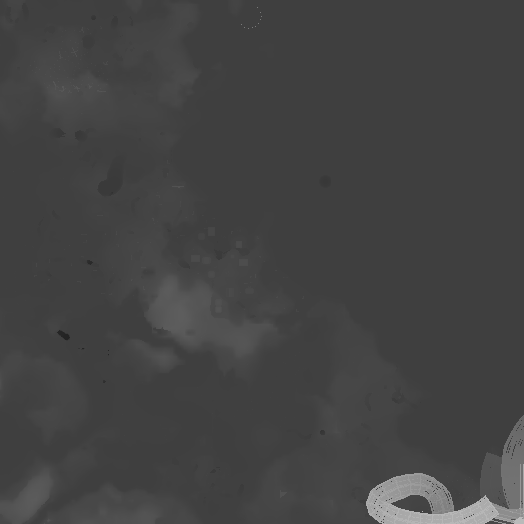
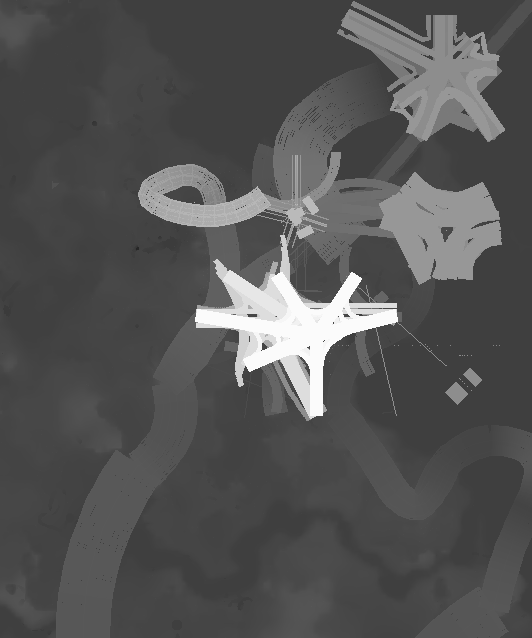
Add /setbuildarea and refactor curveCornerIntersection

diff --git a/roads.py b/roads.py
@@ -300,7 +300,7 @@ def DELETEintersection(roadsData, centerPoint, mainRoads, sideRoads):
         )
 
         # Compute the curve.
-        intersectionPointsTemp = maths.curveCornerIntersection(
+        intersectionPointsTemp = maths.curveCornerIntersectionPoints(
             line0, line1, 10, angleAdaptation=False
         )
 
@@ -380,11 +380,13 @@ def intersection(roadsData, centerPoint, mainRoads, sideRoads):
 
     # Set the main roads.
     for i in roadsData["mainRoads"]:
+        mainLanes = []
         mainRoad = RoadCurve(
             roadsData["mainRoads"].get(i), (mainRoads.get(i)[0], centerPoint)
         )
         mainRoad.setLanes()
         lanes[mainRoads[i][0]] = mainRoad.getLanes()
+        mainLanes.append(mainRoad.getLanes())
         # We don't want to inverse the orientation of the main road.
         mainRoad = RoadCurve(
             roadsData["mainRoads"].get(i), (centerPoint, mainRoads.get(i)[1])
@@ -399,6 +401,31 @@ def intersection(roadsData, centerPoint, mainRoads, sideRoads):
             ),
         )
         lanes[mainRoads[i][1]] = mainRoad.getLanes()
+        mainLanes.append(mainRoad.getLanes())
+
+        # # Compute the curve of the main road.
+        # center = ()
+        # for j in list(mainRoad.getLanes().keys()):
+
+        #     line0 = (mainLanes[0][j][0], mainLanes[0][j][1])
+        #     line1 = (mainLanes[1][j][0], mainLanes[1][j][1])
+
+        #     intersectionPointsTemp, center = maths.curveCornerIntersectionLine(
+        #         line0, line1, 70, angleAdaptation=False, center=center
+        #     )
+
+        #     y = 205
+        #     intersectionPoints = []
+        #     [
+        #         intersectionPoints.append((round(xz[0]), y, round(xz[1])))
+        #         for xz in intersectionPointsTemp
+        #         if (round(xz[0]), y, round(xz[1])) not in intersectionPoints
+        #     ]
+        #     print(intersectionPointsTemp, center)
+
+        #     singleLane2(
+        #         intersectionPoints, blocks=standard_modern_lane_composition
+        #     )
 
     # Sort all the points in rotation order.
     points = []
@@ -418,35 +445,47 @@ def intersection(roadsData, centerPoint, mainRoads, sideRoads):
         )
 
         # Compute the curve.
-        intersectionPoints = maths.curveCornerIntersection(
-            line0, line1, 10, angleAdaptation=False
+        intersectionPointsTemp = maths.curveCornerIntersectionLine(
+            line0, line1, 30, angleAdaptation=False
+        )[0]
+
+        y = 250
+        intersectionPoints = []
+        [
+            intersectionPoints.append((round(xz[0]), y, round(xz[1])))
+            for xz in intersectionPointsTemp
+            if (round(xz[0]), y, round(xz[1])) not in intersectionPoints
+        ]
+
+        singleLane2(
+            intersectionPoints, blocks=standard_modern_lane_composition
         )
 
-        # Generate the curve.
-        for key, value in lanes.items():
-            for __, value1 in value.items():
-                if intersectionPoints[0] in value1:
-                    # Key found.
-                    for __, j in enumerate(mainRoads):
-                        if key in mainRoads[j]:
-                            curveRoad = RoadCurve(
-                                roadsData["mainRoads"][j], intersectionPoints
-                            )
-                            curveRoad.setLanes(
-                                [max(roadsData["mainRoads"][j]["lanes"])]
-                            )
-                    # for __, j in enumerate(sideRoads):
-                    #     print(sideRoads[j])
-                    #     if key == sideRoads[j]:
-                    #         print(
-                    #             roadsData["sideRoads"][j], intersectionPoints
-                    #         )
-                    #         curveRoad = Road(
-                    #             roadsData["sideRoads"][j], intersectionPoints
-                    #         )
-                    #         curveRoad.setLanes(
-                    #             [min(roadsData["sideRoads"][j]["lanes"])]
-                    #         )
+        # # Generate the curve.
+        # for key, value in lanes.items():
+        #     for __, value1 in value.items():
+        #         if intersectionPoints[0] in value1:
+        #             # Key found.
+        #             for __, j in enumerate(mainRoads):
+        #                 if key in mainRoads[j]:
+        #                     curveRoad = RoadCurve(
+        #                         roadsData["mainRoads"][j], intersectionPoints
+        #                     )
+        #                     curveRoad.setLanes(
+        #                         [max(roadsData["mainRoads"][j]["lanes"])]
+        #                     )
+        #             # for __, j in enumerate(sideRoads):
+        #             #     print(sideRoads[j])
+        #             #     if key == sideRoads[j]:
+        #             #         print(
+        #             #             roadsData["sideRoads"][j], intersectionPoints
+        #             #         )
+        #             #         curveRoad = Road(
+        #             #             roadsData["sideRoads"][j], intersectionPoints
+        #             #         )
+        #             #         curveRoad.setLanes(
+        #             #             [min(roadsData["sideRoads"][j]["lanes"])]
+        #             #         )
 
 
 ############################# Lanes Preset #############################
@@ -470,20 +509,27 @@ standard_modern_lanes_agencement = {
                 1: {"type": singleLane2, "centerDistance": 5},
             }
         },
+        1: {
+            "lanes": {
+                -1: {"type": singleLane2, "centerDistance": -5},
+                0: {"type": singleLane2, "centerDistance": 0},
+                1: {"type": singleLane2, "centerDistance": 5},
+            }
+        },
     },
     "sideRoads": {
         0: {
             "lanes": {
                 -1: {"type": singleLane, "centerDistance": -5},
-                1: {"type": singleLane, "centerDistance": 5},
-                2: {"type": singleLane, "centerDistance": 11},
+                1: {"type": singleLane, "centerDistance": 0},
+                2: {"type": singleLane, "centerDistance": 5},
             }
         },
         1: {
             "lanes": {
                 -1: {"type": singleLane, "centerDistance": -5},
-                1: {"type": singleLane, "centerDistance": 5},
-                2: {"type": singleLane, "centerDistance": 11},
+                1: {"type": singleLane, "centerDistance": 0},
+                2: {"type": singleLane, "centerDistance": 5},
             }
         },
     },
@@ -503,11 +549,12 @@ standard_modern_lanes_agencement = {
 
 intersection(
     standard_modern_lanes_agencement,
-    (-30, 160, 100),
+    (20, 250, 120),
     {
-        0: ((20, 160, 200), (-20, 160, 60)),
+        0: ((20, 250, 200), (-20, 250, 60)),
+        1: ((60, 250, 60), (-50, 250, 150)),
     },
-    {0: (-100, 160, 100), 1: (100, 160, 100)},
+    {0: (-100, 250, 100), 1: (100, 250, 100)},
 )
 
 

diff --git a/maths.py b/maths.py
@@ -383,7 +383,8 @@ def cleanLine(path):  # HERE
     TODO:
         Do not work perfectly since 16/04/2021.
         Add new patterns.
-        Problem with i -= 10 : solved but not understand why. 16/04/2021.
+        Problem with i -= 10 : solved but not understand why.
+        16/04/2021.
     """
 
     pathTemp = []
@@ -506,8 +507,8 @@ def curveSurface(
         points (numpy.ndarray): Points where the curve should go.
         distance (int): Thickness.
         resolution (int, optional): Number of blocks that separate each
-        point to calculate parallel curves. 0 to use the points calculated to
-        create the curve. Defaults to 7.
+        point to calculate parallel curves. 0 to use the points
+        calculated to create the curve. Defaults to 7.
         pixelPerfect (bool, optional): True to avoid heaps. Defaults to
         False.
         factor (int, optional): Number of sub-line that will be
@@ -682,7 +683,8 @@ def getAngle(xy0, xy1, xy2):
 
 def lineIntersection(line0, line1, fullLine=True):
     """
-    Find (or not) intersection between two lines. Works in 2d but supports 3d.
+    Find (or not) intersection between two lines. Works in 2d but
+    supports 3d.
 
     https://stackoverflow.com/questions/20677795/how-do-i-compute-the-intersection-point-of-two-lines
 
@@ -744,12 +746,16 @@ def circleLineSegmentIntersection(
     Args:
         circleCenter (tuple): The (x, y) location of the circle center.
         circleRadius (int): The radius of the circle.
-        xy0 (tuple): The (x, y) location of the first point of the segment.
-        xy1 ([tuple]): The (x, y) location of the second point of the segment.
+        xy0 (tuple): The (x, y) location of the first point of the
+        segment.
+        xy1 ([tuple]): The (x, y) location of the second point of the
+        segment.
         fullLine (bool, optional): True to find intersections along
         full line - not just in the segment.  False will just return
         intersections within the segment. Defaults to True.
-        tangentTol (float, optional): Numerical tolerance at which we decide the intersections are close enough to consider it a tangent. Defaults to 1e-9.
+        tangentTol (float, optional): Numerical tolerance at which we
+        decide the intersections are close enough to consider it a
+        tangent. Defaults to 1e-9.
 
     Returns:
         list: A list of length 0, 1, or 2, where each element is a point
@@ -814,8 +820,8 @@ def circle(xyC, r):
 
     Returns:
         dict: Keys are distance from the circle. Value is a list of all
-        coordinates at this distance. 0 for a circle. Negative values for
-        a disc, positive values for a hole.
+        coordinates at this distance. 0 for a circle. Negative values
+        for a disc, positive values for a hole.
     """
     area = (
         (round(xyC[0]) - round(r), round(xyC[1]) - round(r)),
@@ -968,13 +974,11 @@ def sortRotation(points):
     return sortedPoints
 
 
-def curveCornerIntersection(
+def curveCornerIntersectionPoints(
     line0, line1, startDistance, angleAdaptation=False
 ):
     """
     Create points between the two lines to smooth the intersection.
-
-    This function was created in order to generate roads intersections.
 
     Args:
         line0 (tuple): Tuple of tuple. Line coordinates. Order matters.
@@ -990,7 +994,7 @@ def curveCornerIntersection(
         [list]: List of tuple of coordinates (2d) that forms the curve.
         Starts on the line and end on the other line.
 
-    >>> curveCornerIntersection(((0, 0), (50, 20)), ((-5, 50), (25, -5)), 10)
+    >>> curveCornerIntersectionPoints(((0, 0), (50, 20)), ((-5, 50), (25, -5)), 10)
     """
     intersection = lineIntersection(line0, line1, fullLine=True)
 
@@ -1040,6 +1044,82 @@ def curveCornerIntersection(
     # Be sure that all the points are in correct order.
     curveCornerPoints = optimizedPath(curveCornerPointsTemp, startCurvePoint)
     return curveCornerPoints
+
+
+def curveCornerIntersectionLine(
+    line0, line1, startDistance, angleAdaptation=False, center=()
+):
+    """
+    Create a continuous circular line between the two lines to smooth
+    the intersection.
+
+    Args:
+        line0 (tuple): Tuple of tuple. Line coordinates. Order matters.
+        line1 (tuple): Tuple of tuple. Line coordinates. Order matters.
+        startDistance (int): distance from the intersection where the
+        curve should starts.
+        angleAdaptation (bool, optional): True will adapt the
+        startDistance depending of the angle between the two lines.
+        False will force the distance to be startDistance. Defaults to
+        False.
+
+    Returns:
+        [list]: List of tuple of coordinates (2d) that forms the curve.
+        Starts on the line and end on the other line.
+
+    TODO:
+        angleAdaptation : Set circle radius and not startDistance.
+        Polar coordinates / Unit circle instead of InTriangle.
+
+    >>> curveCornerIntersectionLine(((0, 0), (50, 20)), ((-5, 50), (25, -5)), 10)
+    """
+    intersection = lineIntersection(line0, line1, fullLine=True)
+
+    if intersection == None:
+        return None
+
+    # Define automatically the distance from the intersection, where the curve
+    # starts.
+    if angleAdaptation:
+        angle = getAngle(
+            (line0[0][0], line0[0][-1]),
+            intersection,
+            (line1[0][0], line1[0][-1]),
+        )
+        # Set here the radius of the circle for a square angle.
+        startDistance = startDistance * abs(1 / (angle / 90))
+
+    startCurvePoint = circleLineSegmentIntersection(
+        intersection, startDistance, line0[0], intersection, fullLine=True
+    )[0]
+    endCurvePoint = circleLineSegmentIntersection(
+        intersection, startDistance, line1[0], intersection, fullLine=True
+    )[0]
+    # Higher value for better precision
+    perpendicular0 = perpendicular(10e3, startCurvePoint, intersection)[0]
+    perpendicular1 = perpendicular(10e3, endCurvePoint, intersection)[1]
+
+    if center == ():
+        center = lineIntersection(
+            (perpendicular0, startCurvePoint), (perpendicular1, endCurvePoint)
+        )
+
+    # Distance with startCurvePoint and endCurvePoint from the center
+    # are almost the same.
+    radius = distance2D(startCurvePoint, center)
+
+    circleArc = circle(center, round(radius))[0]
+
+    # Find the correct point on the circle.
+    curveCornerPointsTemp = [startCurvePoint]
+    for point in circleArc:
+        if InTriangle(point, intersection, startCurvePoint, endCurvePoint):
+            curveCornerPointsTemp.append(point)
+    # curveCornerPointsTemp.append(endCurvePoint)
+
+    # Be sure that all the points are in correct order.
+    curveCornerPoints = optimizedPath(curveCornerPointsTemp, startCurvePoint)
+    return curveCornerPoints, center
 
 
 def middleLine(xyz0, xyz1):

diff --git a/roadsNetwork.py b/roadsNetwork.py
@@ -252,7 +252,9 @@ def DELETEintersection(centerPoint, roadsData):
         line1 = roads[i - 1]
         main.setLine("white_concrete", line0[0], line0[1])
         main.setLine("red_concrete", line1[0], line1[1])
-        intersectionPoints = maths.curveCornerIntersection(line0, line1, 10)
+        intersectionPoints = maths.curveCornerIntersectionPoints(
+            line0, line1, 10
+        )
         # 2d to 3d.
         for i in range(len(intersectionPoints)):
             intersectionPoints[i] = (
@@ -371,7 +373,7 @@ def DELETE2intersection(blocks, XYZ, roadsData):
     for i in range(len(lanes)):
         line0 = lanes[i][max(lanes[i])]
         line1 = lanes[i - 1][min(lanes[i - 1])]
-        intersectionPointsTemp = maths.curveCornerIntersection(
+        intersectionPointsTemp = maths.curveCornerIntersectionPoints(
             line0, line1, 10
         )
         for i in range(len(intersectionPointsTemp)):

diff --git a/scan.py b/scan.py
@@ -9,6 +9,7 @@ from PIL import Image
 import matplotlib.pyplot as plt
 from scipy import ndimage
 from skimage.morphology import skeletonize
+import interfaceUtils
 
 
 def heightmap(xzStart, xzDistance):  # TODO: Can be better and clear.
@@ -324,7 +325,6 @@ def skeletonize(image):
     cv2.destroyAllWindows()
 
 
-heightmap((-524, -524), (524, 524))
 # sobel("heightmap.png")
 # edge("heightmap_sobel.png")
 # sobel("heightmap_edge.png")
@@ -334,3 +334,9 @@ heightmap((-524, -524), (524, 524))
 
 print("DONE")
 # print(areaCoordinates((-141, -160), (89, 440)))
+
+area = interfaceUtils.requestBuildArea()
+area = areaCoordinates(
+    (area["xFrom"], area["zFrom"]), (area["xTo"], area["zTo"])
+)
+heightmap(area[0], area[1])
